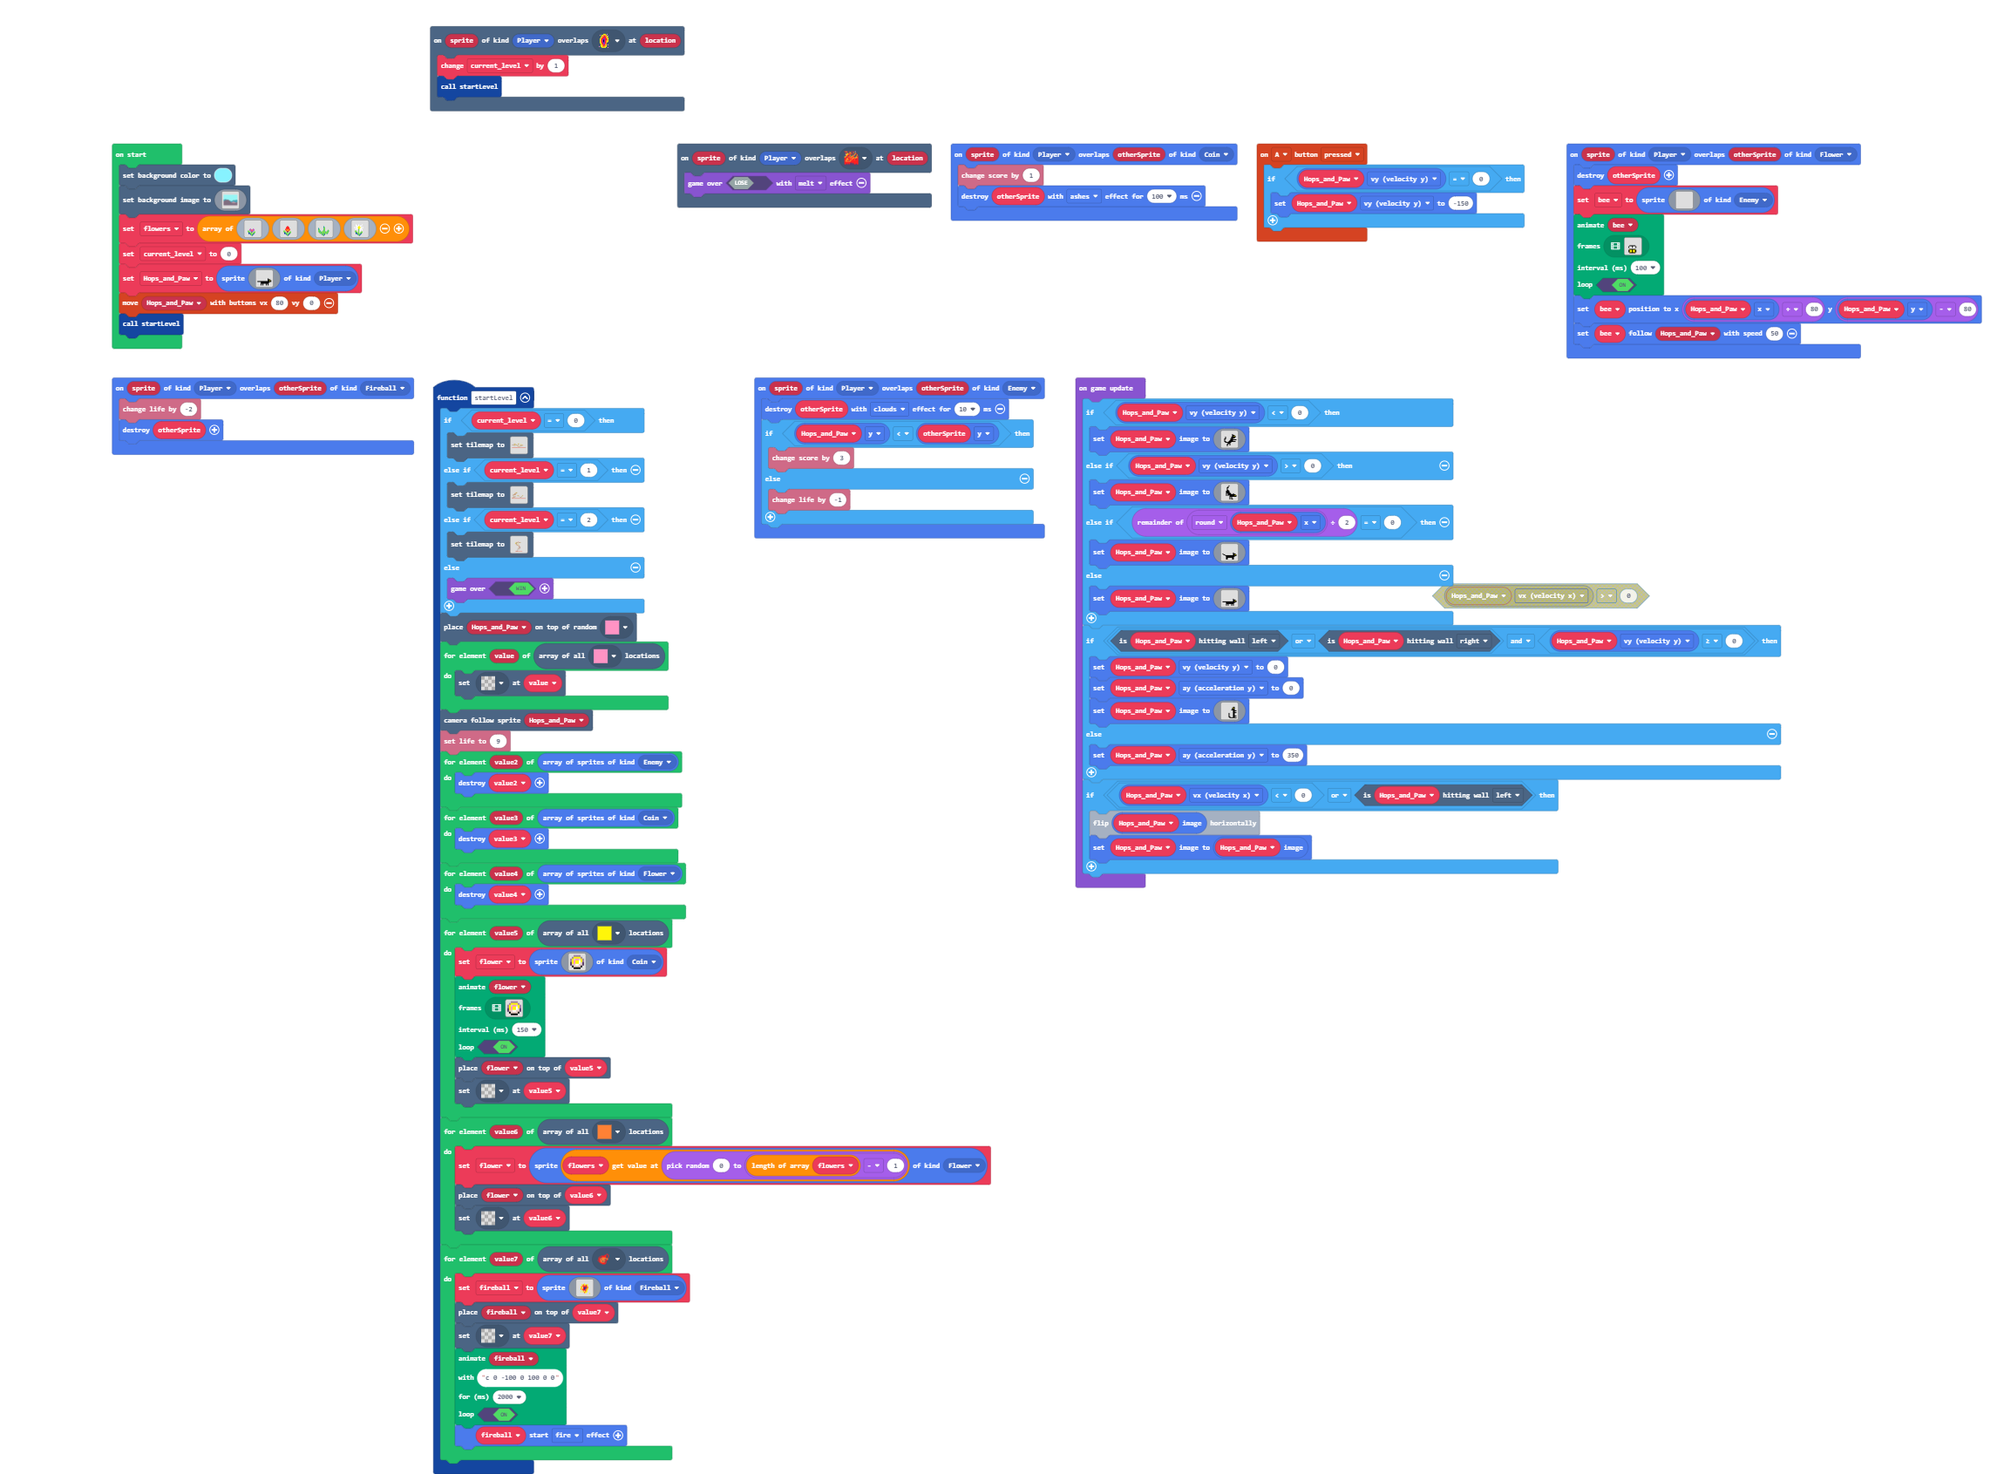
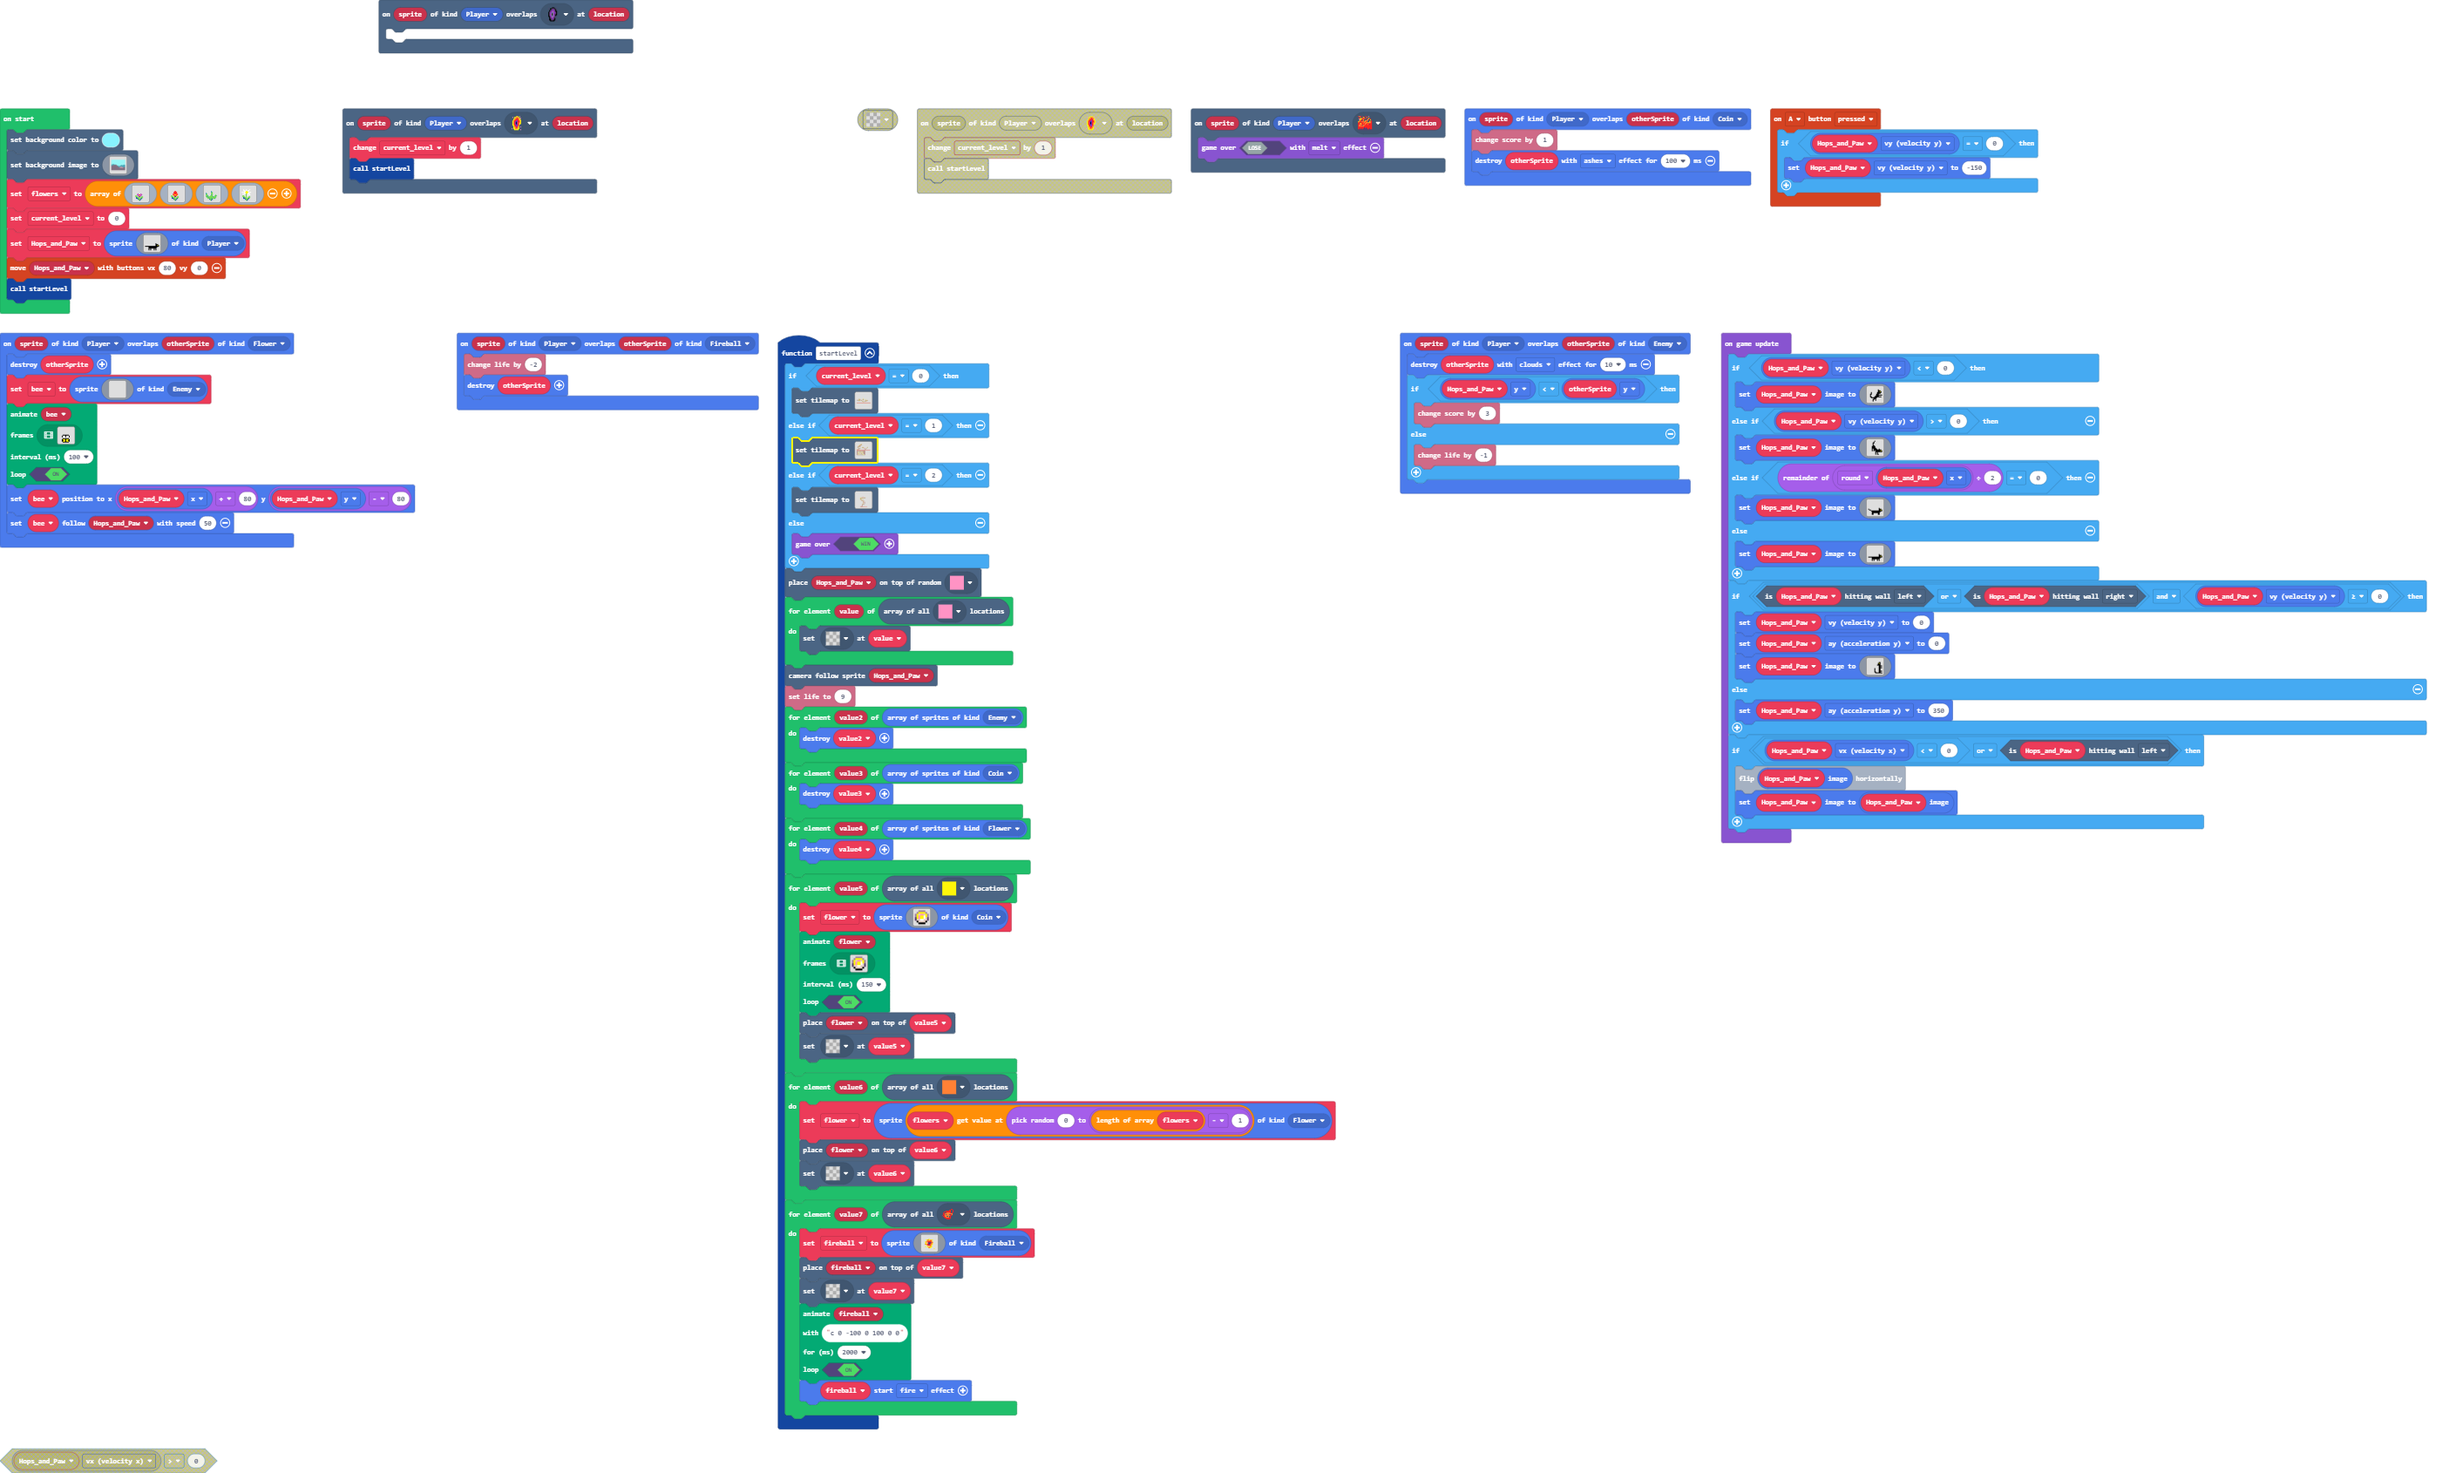
Update main.blocks, main.ts, tilemap.g.jres, tilemap.g.ts, images.g.jres, images.g.ts

diff --git a/tilemap.g.ts b/tilemap.g.ts
@@ -26,6 +26,8 @@ namespace myTiles {
     export const tile11 = image.ofBuffer(hex``);
     //% fixedInstance jres blockIdentity=images._tile
     export const tile8 = image.ofBuffer(hex``);
+    //% fixedInstance jres blockIdentity=images._tile
+    export const tile12 = image.ofBuffer(hex``);
 
     helpers._registerFactory("tilemap", function(name: string) {
         switch(helpers.stringTrim(name)) {
@@ -143,34 +145,6 @@ namespace myTiles {
 . . . . . . . . . . . . . . . . 
 . . . . . . . . . . . . . . . . 
 `, [myTiles.transparency16], TileScale.Sixteen);
-            case "level_0":
-            case "level_0":return tiles.createTilemap(hex`320019000000000000000000000000000000000000000000000000000000000000000000000000000000000000000000000000000000000000000000000000000000000000000000000000000000000000000000000000000000000000000000000000000000000000000000000000000000000000000000000000000000000000000000000000000000000000000000000000000000000000000000000000000000000000000000000004050400000000000000000000000000000000000000000000000000000000000000000000000000000000000000000004050408010000000000000000000000000000000000000000000000000000000000000000000000000000000000000004050408010700000000000000000000000000000000000000000000000000000000000000000000000000000000000000050408010700000000000000000000000000000000000000000000000000000000000000000000000000000000000000000508010700000000000000000000000000000000000000000000000000000000000000000000000000000000000000000401010700000000000000000000000000000000000000000000000000000000000000000000000000000000000000000000040000000000000000000000000000000000000000000000000000000000000000000000000000000000000000000005050504050505000500000000000000000000000000000000000000000000000000000000000000000000000000000000010101010101010101010000000000000000000000000000000000000000000000000000000000000000000000000000000000000000000000000000000000000000000000000000000000000000000000000000000000000000000000000000000001010000000000000000000000000000000000000000000000000000000000000000000004020000000000000000000000000000000400000000000000000000000000000404040405000000000000000000000000000101000000000000000000000000000001010100000000000000000000000001010101010100000000000000000000000004000000000000000000000000000000000000000500000000000000000000000000000000000101000000000000000000010100000000000000000000000000000000000000010100000004000000000000000000000000000000000000000000000400000000000000000000000000000000000000000000000001010101000000000000000000000000000000000000000001010000000000000000000000000000000000000000050004000000000000000000000000000000000000000000040000000000000000000000000000000000000000000000000101010101000000000000000000000000000000000000000101010101000000000000000000000000000000000600040500000000000000000000000000000000000000000000000000000000000000000000000000000000000000000000010101010100000000000000000000000000000000000000000000000000000000000000000000000000000000000000000000000000000000000000000000000000000000000000000000000000000000000000000000000000000000000000000000000303030303030303030303030303030303030303030303030303030303030303030303030303030303030303030303030300`, img`
-..................................................
-..................................................
-..................................................
-..................................................
-.................22...............................
-...............222................................
-.............222..................................
-...........222....................................
-.........222......................................
-..................................................
-..................................................
-....2222222222....................................
-..................................................
-..22..............................................
-......................................22..........
-....222............222222.........................
-.........................22.........22............
-.......22.........................................
-..........2222....................22..............
-..................................................
-.....22222...................22222................
-..................................................
-22222.............................................
-..................................................
-..................................................
-`, [myTiles.tile0,myTiles.tile1,myTiles.tile2,myTiles.tile3,myTiles.tile4,myTiles.tile5,myTiles.tile6,myTiles.tile9,myTiles.tile10], TileScale.Sixteen);
             case "level_1":
[1 lines of base64/hex data omitted]
 .........................
@@ -245,6 +219,59 @@ namespace myTiles {
 ..................................................
 ..................................................
 `, [myTiles.tile0,myTiles.tile1,myTiles.tile2,myTiles.tile3,myTiles.tile4,myTiles.tile5,myTiles.tile6,myTiles.tile9,myTiles.tile10], TileScale.Sixteen);
+            case "level_0":
[1 lines of base64/hex data omitted]
+..................................................
+..................................................
+..................................................
+..................................................
+.................22...............................
+...............222................................
+.............222..................................
+...........222....................................
+.........222......................................
+..................................................
+..................................................
+....2222222222....................................
+..................................................
+..22..............................................
+......................................22..........
+....222............222222.........................
+.........................22.........22............
+.......22.........................................
+..........2222....................22..............
+..................................................
+.....22222...................22222................
+..................................................
+22222.............................................
+..................................................
+..................................................
+..................................................
+..................................................
+..................................................
+..................................................
+..................................................
+..................................................
+..................................................
+..................................................
+..................................................
+..................................................
+..................................................
+..................................................
+..................................................
+..................................................
+..................................................
+..................................................
+..................................................
+..................................................
+..................................................
+..................................................
+..................................................
+..................................................
+..................................................
+..................................................
+..................................................
+`, [myTiles.tile0,myTiles.tile1,myTiles.tile2,myTiles.tile3,myTiles.tile4,myTiles.tile5,myTiles.tile6,myTiles.tile9,myTiles.tile10,myTiles.tile7,myTiles.tile8,myTiles.tile12], TileScale.Sixteen);
         }
         return null;
     })
@@ -264,6 +291,8 @@ namespace myTiles {
             case "tile10":return tile10;
             case "tile11":return tile11;
             case "tile8":return tile8;
+            case "myTile":
+            case "tile12":return tile12;
         }
         return null;
     })

diff --git a/images.g.ts b/images.g.ts
@@ -619,6 +619,41 @@ f f f f f f f f f f f f f f f f
 . . . . f . f . . . . . f f . . 
 . . . . f . f . . . . . f . f . 
 `];
+            case "anim5":return [img`
+. . . . . . . . . . . . . . . . 
+. . . . . . . . . . . . . . . . 
+. . . . . . . . . . . . . . . . 
+. . . . . . . . . . . . . . . . 
+. . . . . . . . . . . . . . . . 
+. . . . . . . . . . . . . . . . 
+. . . . . . . . . . . . . . . . 
+. . . . . . . . . . . . . . . . 
+. . . . . . . . . . . . f . . . 
+. . . . . . . . . . . . f f f . 
+. . . . . . . . . . . . f f 5 f 
+f f f f f f f f f f f f f f f f 
+. . . . f f f f f f f f f f . . 
+. . . . f f f f f f f f f . . . 
+. . . . f f . . . . . f f . . . 
+. . . . f f . . . . . f f . . . 
+`, img`
+. . . . . . . . . . . . . . . . 
+. . . . . . . . . . . . . . . . 
+. . . . . . . . . . . . . . . . 
+. . . . . . . . . . . . . . . . 
+. . . . . . . . . . . . . . . . 
+. . . . . . . . . . . . . . . . 
+. . . . . . . . . . . . . . . . 
+. . . . . . . . . . . . . . . . 
+. . . . . . . . . . . . f . . . 
+. . . . . . . . . . . . f f f . 
+. . . . . . . . . . . . f f 5 f 
+f f f f f f f f f f f f f f f f 
+. . . . f f f f f f f f f f . . 
+. . . . f f f f f f f f f . . . 
+. . . . f . f . . . . . f f . . 
+. . . . f . f . . . . . f . f . 
+`];
         }
         return null;
     })

diff --git a/main.ts b/main.ts
@@ -3,9 +3,6 @@ namespace SpriteKind {
     export const Flower = SpriteKind.create()
     export const Fireball = SpriteKind.create()
 }
-scene.onOverlapTile(SpriteKind.Player, null, function (sprite, undefined) {
-	
-})
 sprites.onOverlap(SpriteKind.Player, SpriteKind.Coin, function (sprite, otherSprite) {
     info.changeScoreBy(1)
     otherSprite.destroy(effects.ashes, 100)
@@ -17,6 +14,9 @@ controller.A.onEvent(ControllerButtonEvent.Pressed, function () {
 })
 scene.onOverlapTile(SpriteKind.Player, assets.tile`tile3`, function (sprite, location) {
     game.over(false, effects.melt)
+})
+scene.onOverlapTile(SpriteKind.Player, assets.tile`tile8`, function (sprite, location) {
+	
 })
 scene.onOverlapTile(SpriteKind.Player, assets.tile`tile2`, function (sprite, location) {
     current_level += 1
@@ -186,9 +186,6 @@ sprites.onOverlap(SpriteKind.Player, SpriteKind.Flower, function (sprite, otherS
     )
     bee.setPosition(Hops_and_Paw.x + 80, Hops_and_Paw.y - 80)
     bee.follow(Hops_and_Paw, 50)
-})
-scene.onOverlapTile(0, 0, function (undefined, undefined) {
-	
 })
 sprites.onOverlap(SpriteKind.Player, SpriteKind.Fireball, function (sprite, otherSprite) {
     info.changeLifeBy(-2)
